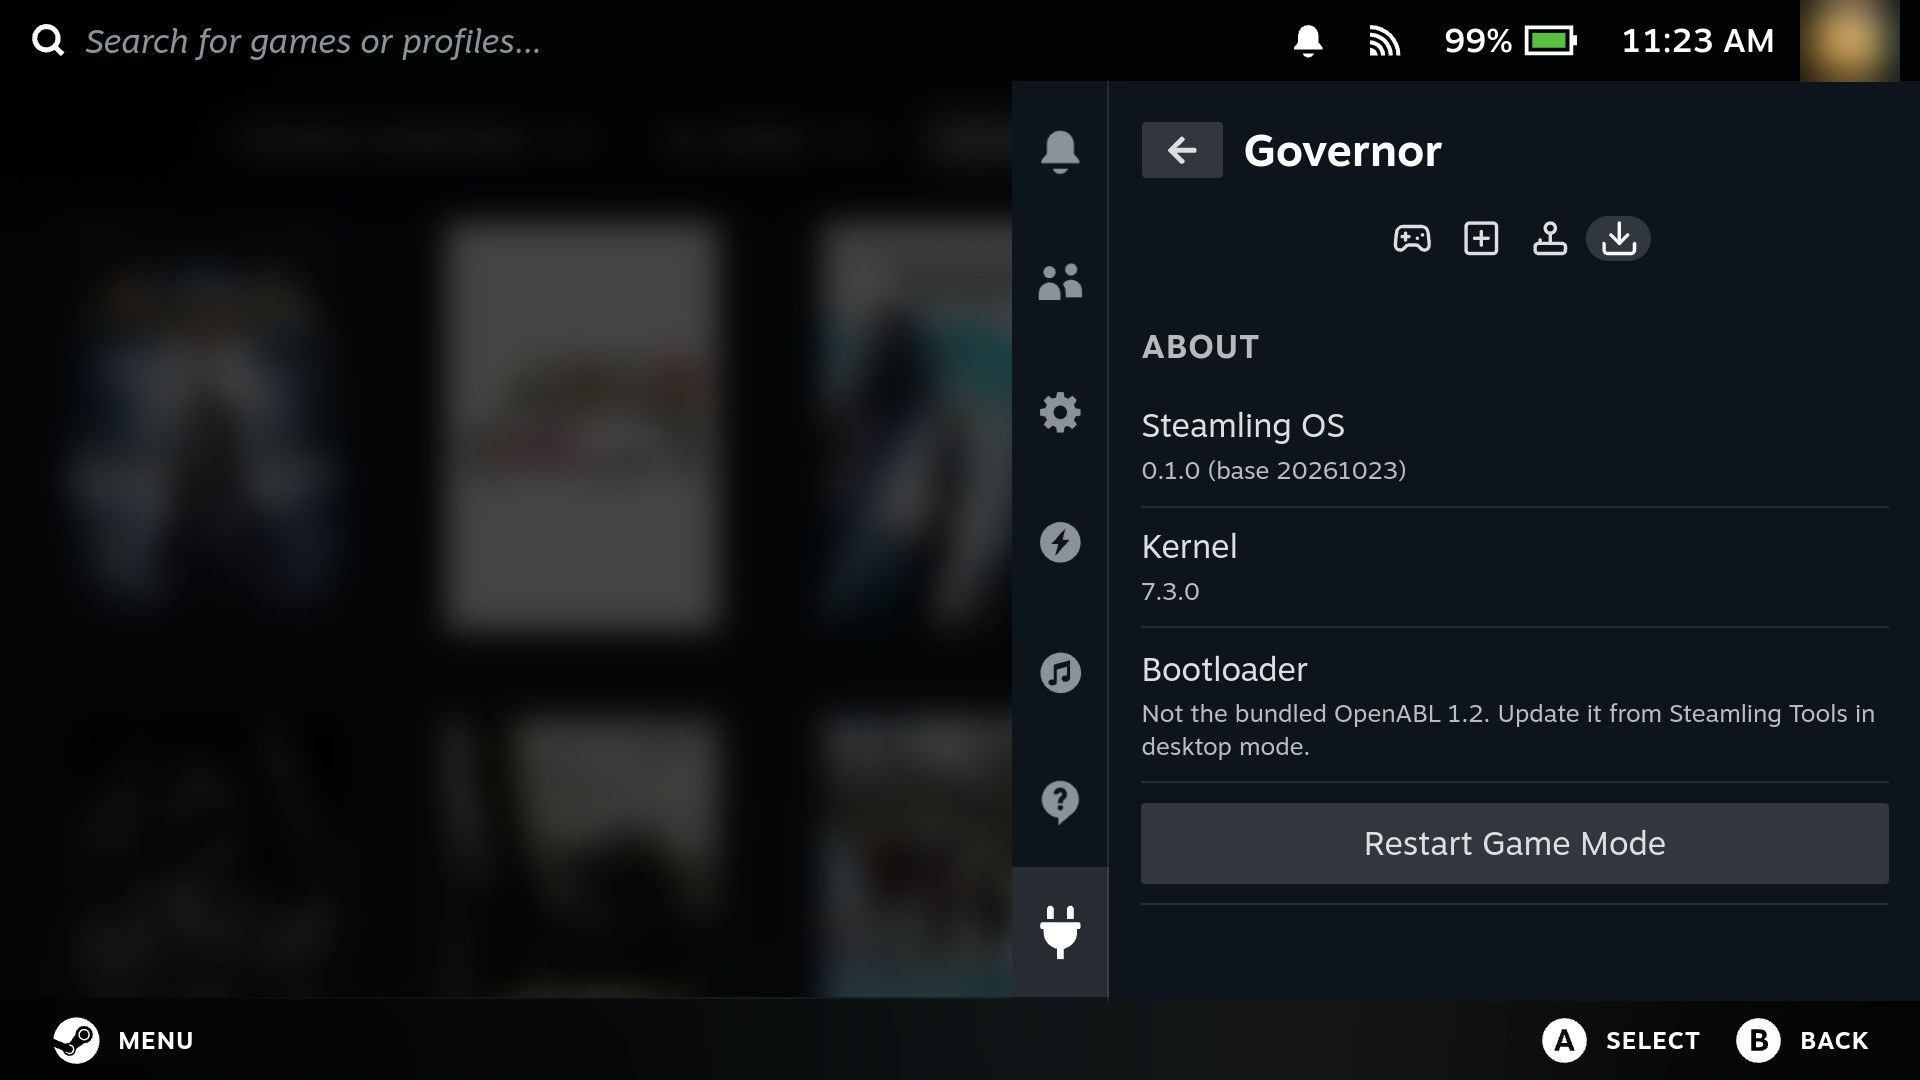
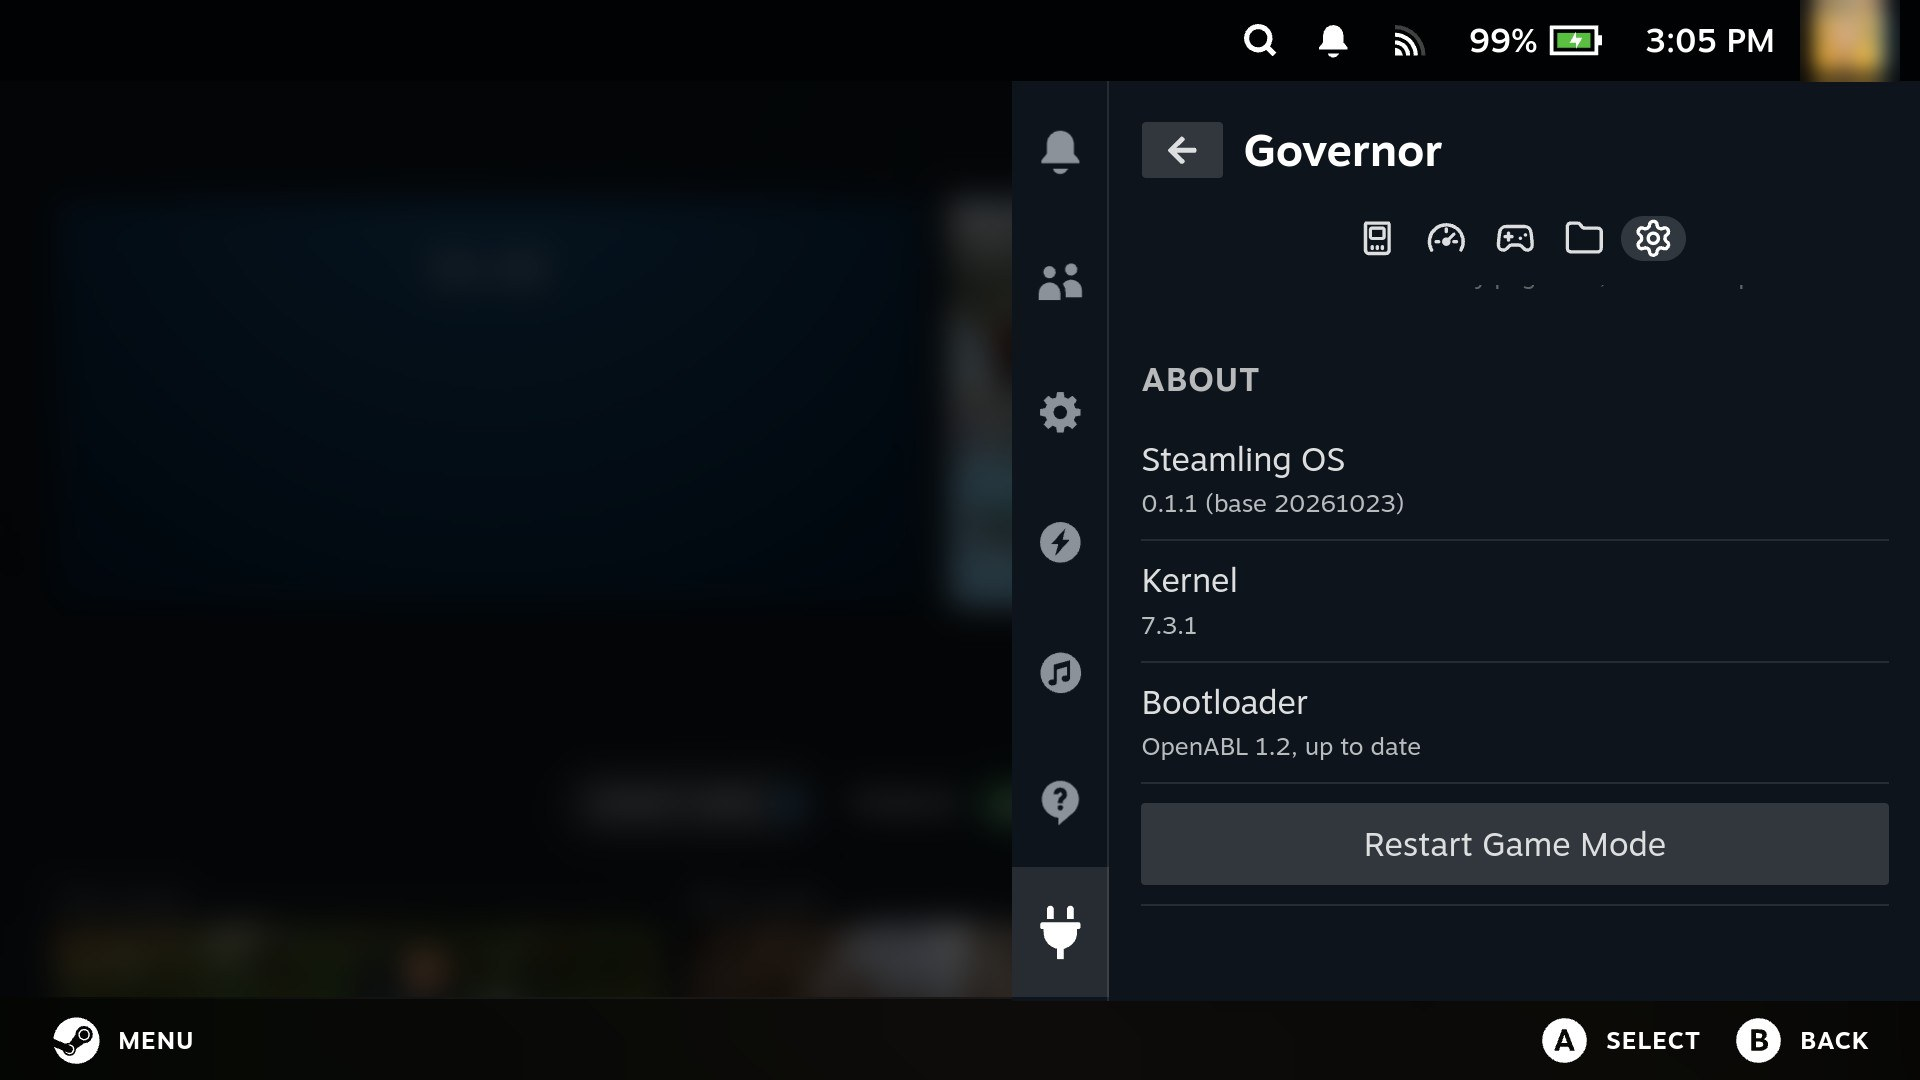
docs: About screenshots showing 0.1.1
Governor's About section and Steam's System page, retaken on 0.1.1 with
kernel 7.3.1, avatar blurred.

diff --git a/docs/governor.md b/docs/governor.md
@@ -291,12 +291,12 @@ less on these small screens.
 The bottom of the tab shows your Steamling OS version, the kernel, and whether the bootloader
 on internal storage is the OpenABL this build ships. Handy when you're filing a bug.
 
-![The About section: Steamling OS version, kernel, bootloader and Restart Game Mode](images/governor-about.jpeg)
+![The About section: Steamling OS 0.1.1, kernel 7.3.1, OpenABL 1.2 and Restart Game Mode](images/governor-about.jpeg)
 
 Steam's own **Settings → System** page shows the same details too: the OS name, the release
 codename, which handheld it is under **OS Variant**, the version, the build date and the kernel.
 
-![Steam's System settings: Steamling OS, codename hatchling, OS Variant Retroid Pocket 6 (SM8550), version 0.1.0 and kernel 7.3.0](images/steam-settings-system.jpeg)
+![Steam's System settings: Steamling OS, codename hatchling, OS Variant Retroid Pocket 6 (SM8550), version 0.1.1 and kernel 7.3.1](images/steam-settings-system.jpeg)
 
 **Restart Game Mode** closes Steam and brings game mode back up, for the times Steam or the
 screen gets stuck. Anything unsaved in a running game is lost.
